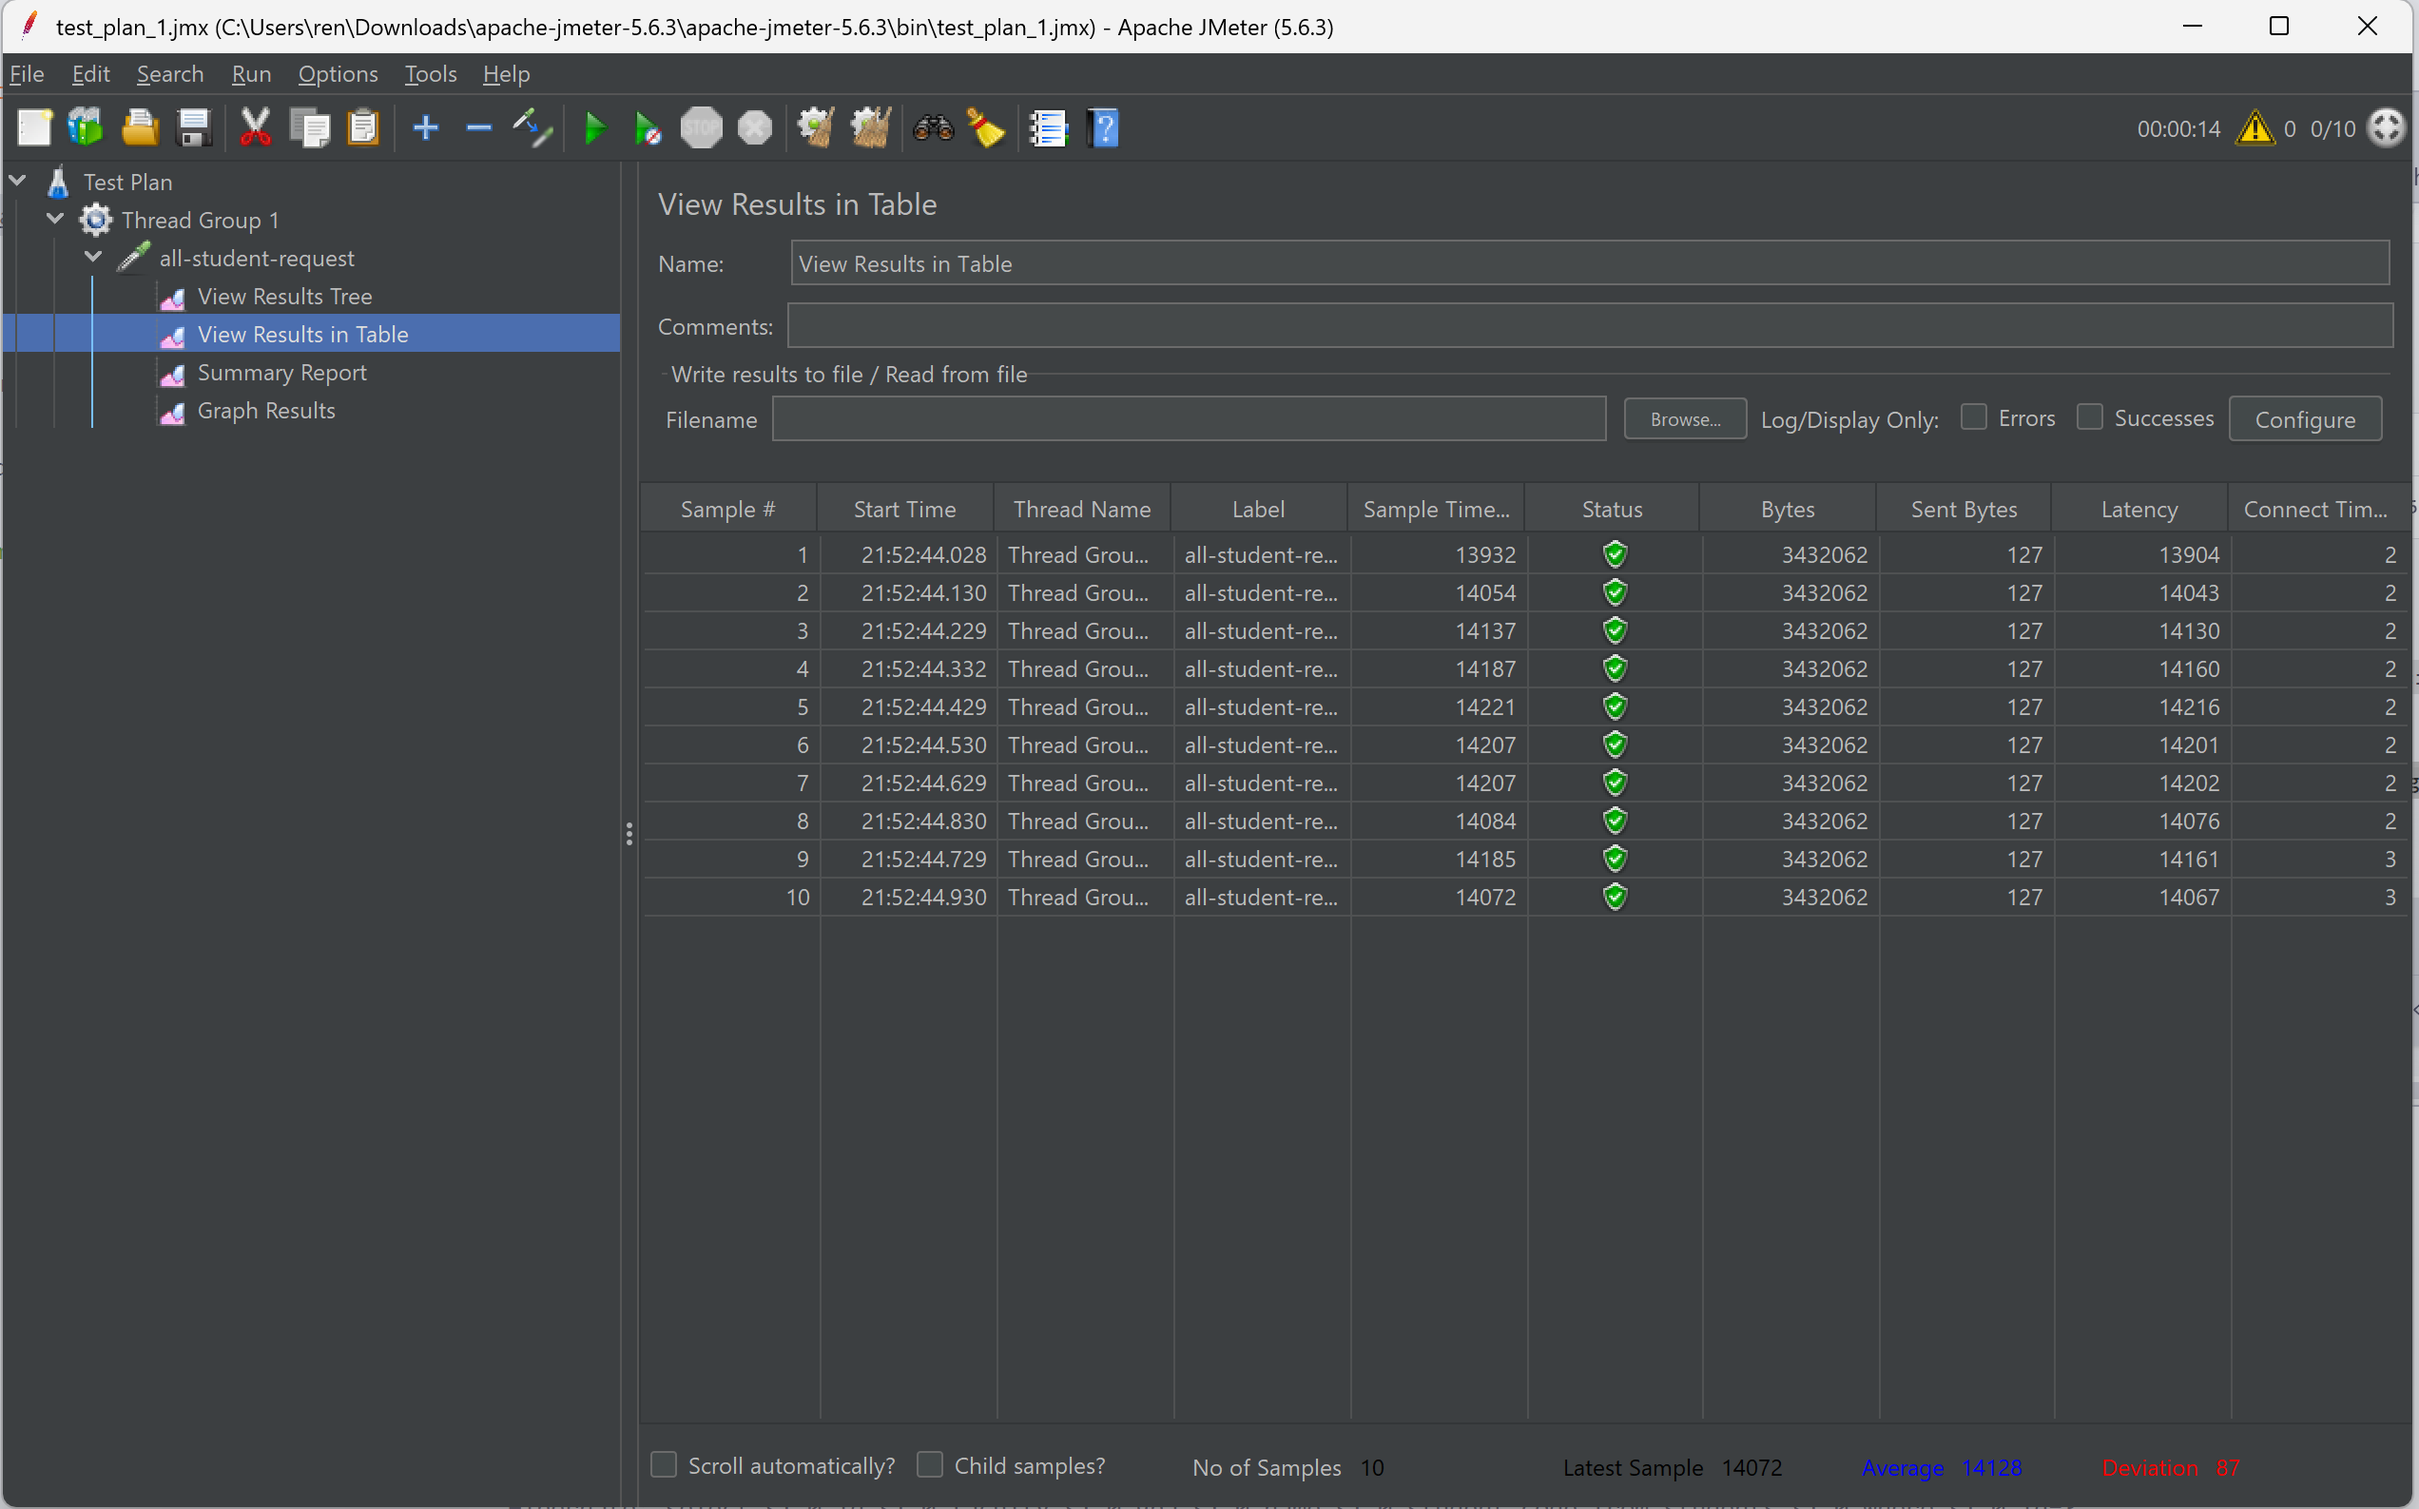
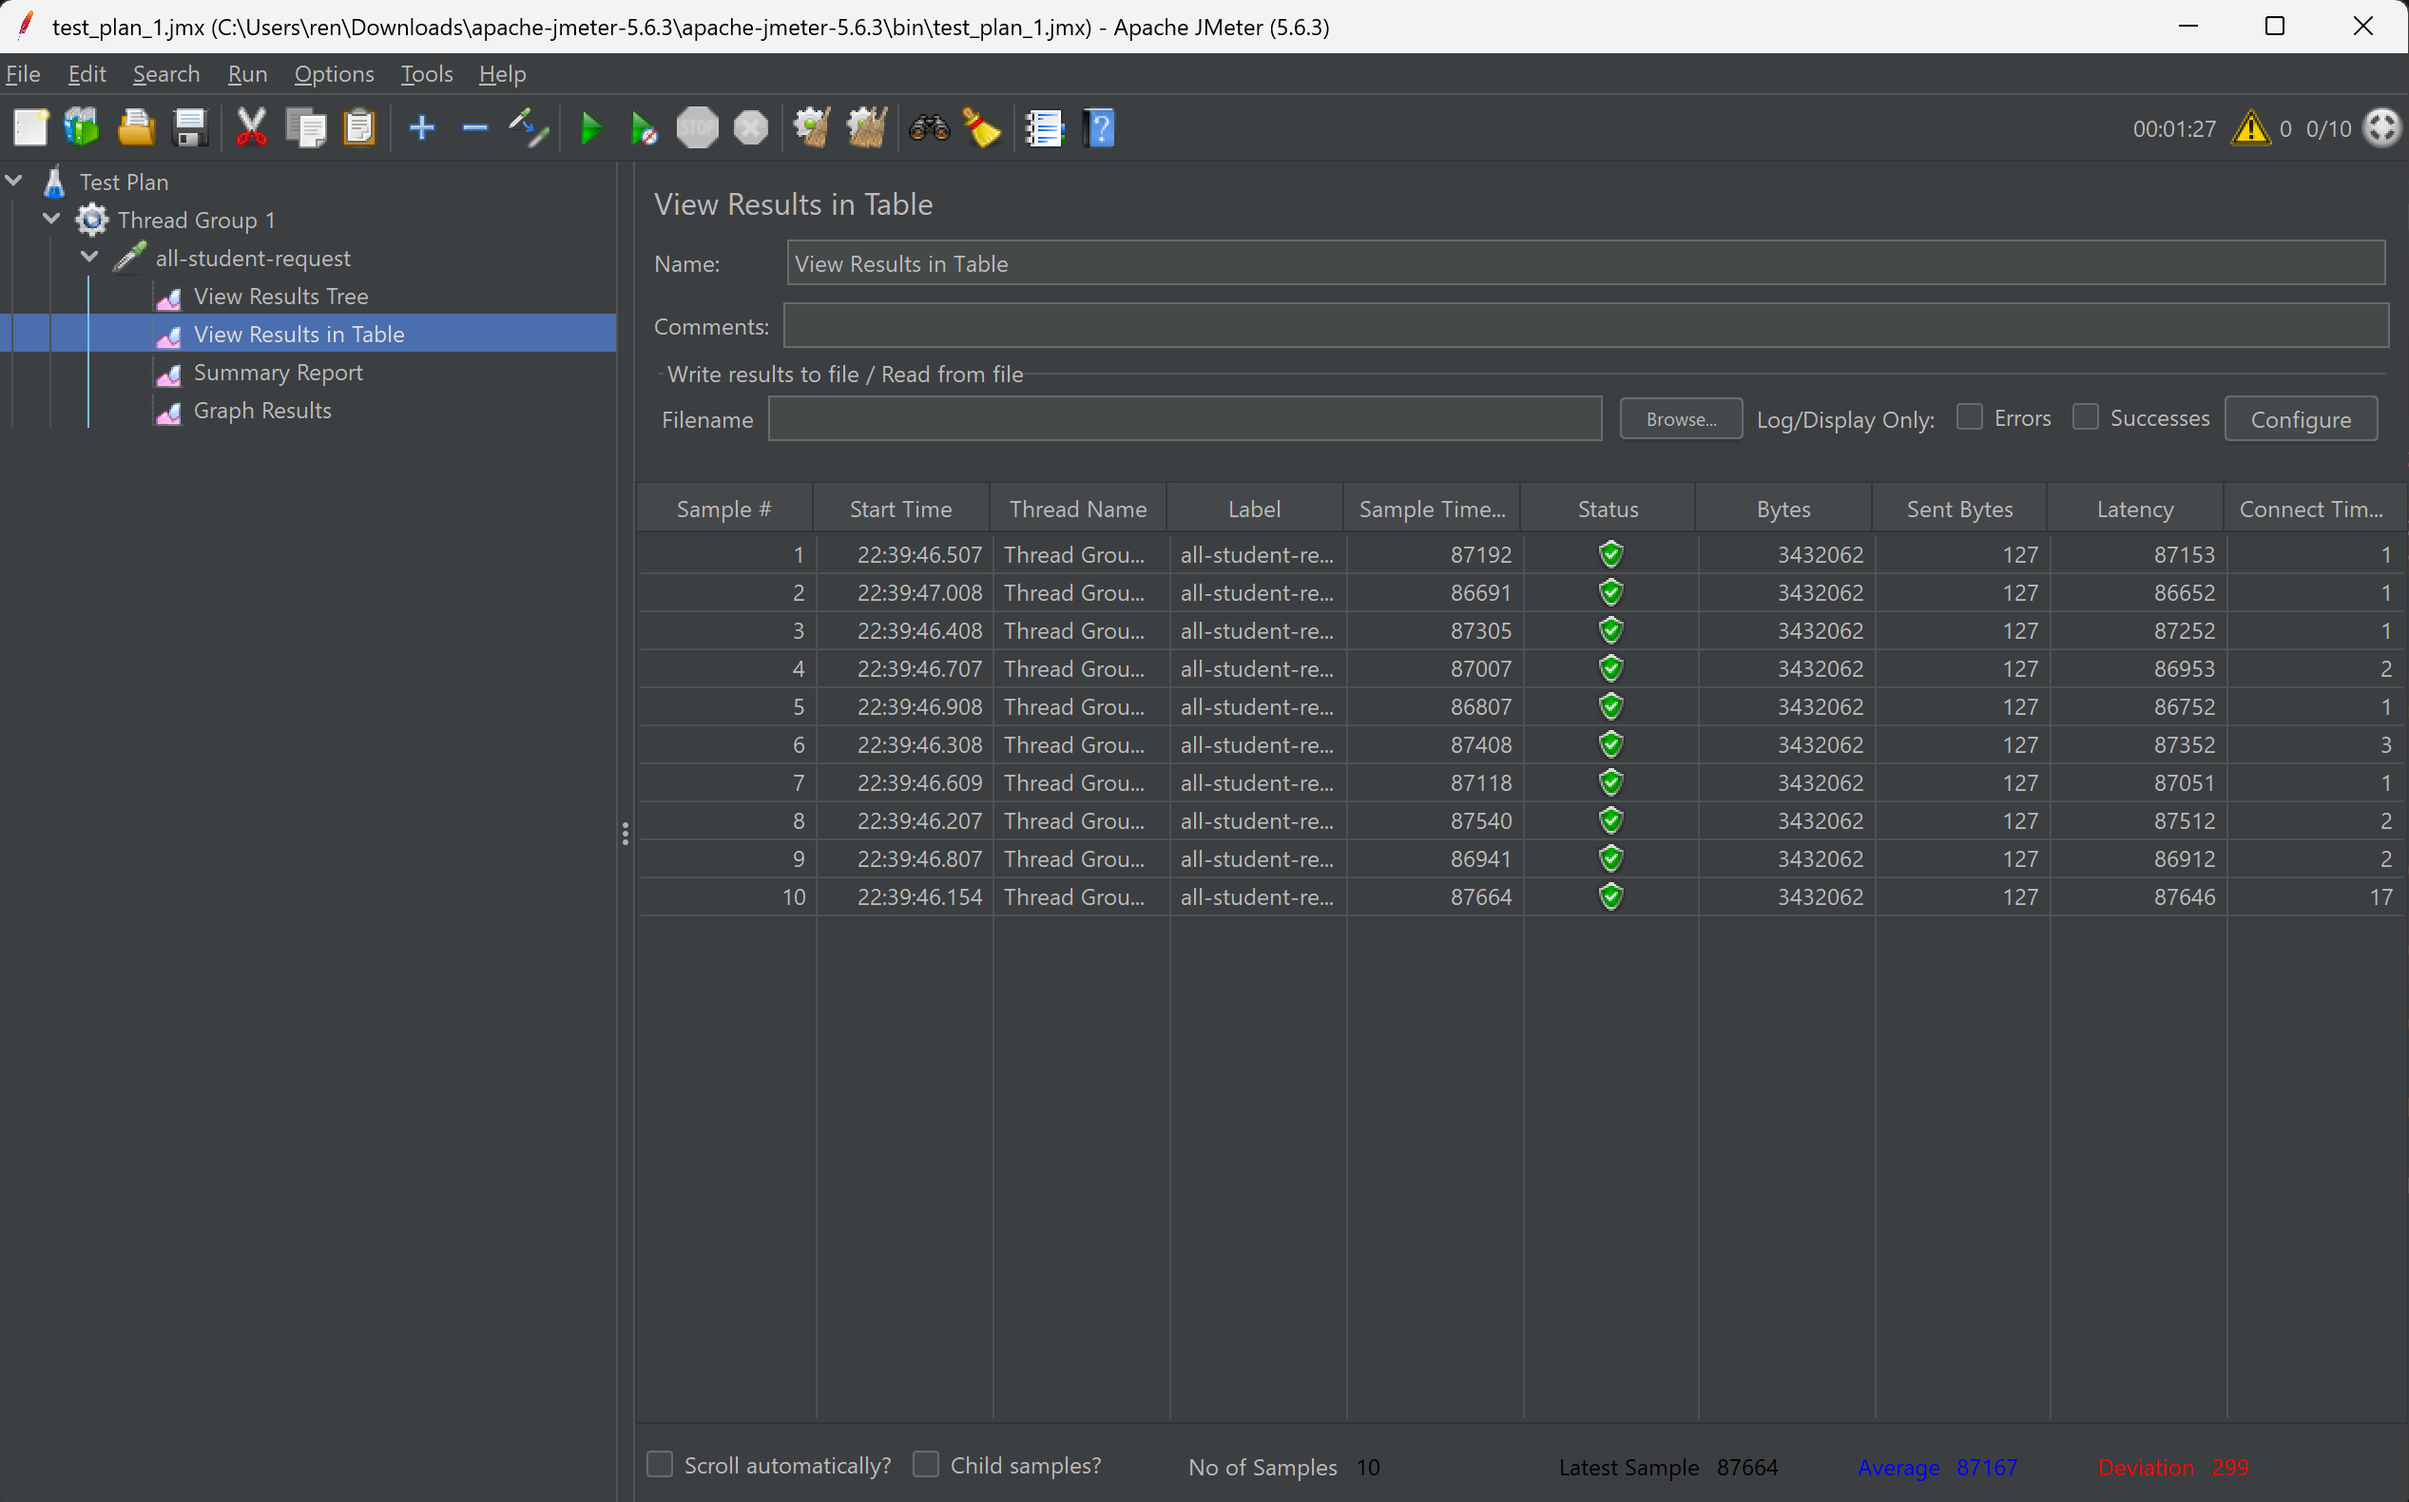
fix: README.md

diff --git a/README.md b/README.md
@@ -20,16 +20,23 @@ Screenshot of the performance testings:
 1. Optimizing method getAllStudentWithCourse
    ![Unoptimized Code](./assets/images/prof1_unoptimized_code.png)
    ![Optimized Code](./assets/images/prof1_optimized_code.png)
+   Berikut hasil JMeter setelah optimisasi:
+   ![Test 1 After Optimization](./assets/images/test1_after_opt.png)
    Dalam Kode sebelumnya, fungsi `getAllStudentWithCourse` memakan waktu sangat banyak (4.4s) sekarang dengan optimisasi sesuai gambar, fungsi tersebut hanya memerlukan 1.8s, performa aplikasi meningkat drastis, lebih dari 50%.
+
 
 2. Optimizing method joinStudentNames
    ![Unoptimized Code](./assets/images/prof2_unoptimized_code.png)
    ![Optimized Code](./assets/images/prof2_optimized_code.png)
+   Berikut hasil JMeter setelah optimisasi:
+   ![Test 2 After Optimization](./assets/images/test2_after_opt.png)
    Dalam Kode sebelumnya, fungsi `joinStudentNames` memakan waktu sangat banyak (~700ms) sekarang dengan optimisasi sesuai gambar, fungsi tersebut hanya memerlukan ~100ms, performa aplikasi meningkat drastis, lebih dari 50%.
 
 3. Optimizing method findStudentWithHighestGpa
    ![Unoptimized Code](./assets/images/prof3_unoptimized_code.png)
    ![Optimized Code](./assets/images/prof3_optimized_code.png)
+   Berikut hasil JMeter setelah optimisasi:
+   ![Test 3 After Optimization](./assets/images/test3_after_opt.png)
    Dalam Kode sebelumnya, fungsi `findStudentWithHighestGpa` memakan lumayan banyak (~150ms) sekarang dengan optimisasi sesuai gambar, fungsi tersebut hanya memerlukan ~55ms, performa aplikasi meningkat drastis, lebih dari 50%.
 
 **Apakah terdapat perbedaan ketika menjalankan JMeter sebelum dan sesudah optimisasi?**
